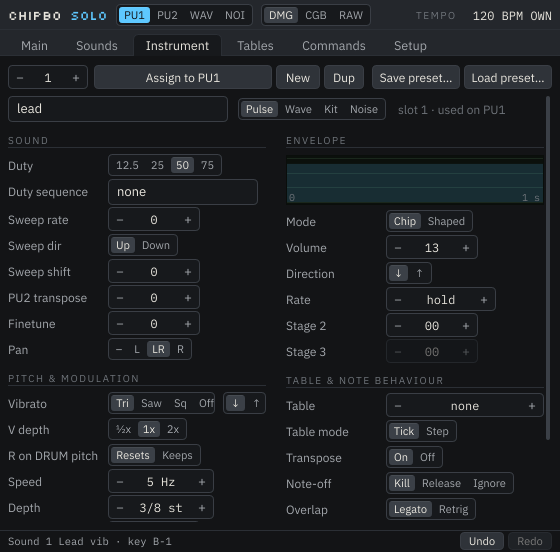
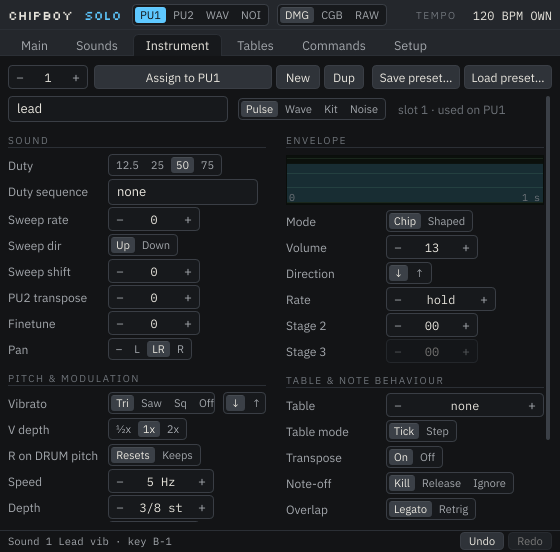
Solo: the wordmark unclipped, the compact Waves top row from the right, a shorter Kits hint, a plainer note line
Seen in the screenshots: the header's CHIPBOY was cut at 62 px; the
compact Waves page's frame readout lost its count behind the New button
(the row is now laid out from the right, the name taking what is left,
without the FRAME label); the Kits page's table hint ran off the pane; the
Main page's note line repeated the status line's recall.

Claude-Session: https://claude.ai/code/session_017xjfhsuF4KGRWmf3FzZwSg

Changed region(s): [[0.1214, 0.0, 0.6982, 0.0616]]

diff --git a/Source/plugin/solo/SoloEditor.cpp b/Source/plugin/solo/SoloEditor.cpp
@@ -286,9 +286,9 @@ void SoloStrip::tick()
     if (note != noteDrawn_) { noteDrawn_ = note; repaint(scope_.getBounds()); }
     int lo = 0, hi = 127;
     processor_.noteRange(lo, hi);
-    String line = "plays " + ValueFormat::noteValue(lo, ch == 3) + String(CharPointer_UTF8("\xe2\x80\x93")) + ValueFormat::noteValue(hi, ch == 3);
+    // The last recall is the status line's; here the range and the note.
+    String line = "plays " + ValueFormat::noteValue(lo, ch == 3) + " to " + ValueFormat::noteValue(hi, ch == 3);
     line += kDot + "note " + (note >= 0 ? ValueFormat::noteValue(note, ch == 3) : kDash);
-    if (const String r = processor_.lastRecall(); r.isNotEmpty()) line += kDot + r;
     if (line != noteShown_) { noteShown_ = line; noteLine_.setText(line); }
 }
 
@@ -1156,9 +1156,9 @@ void SoloEditor::resized()
     content_.setBounds(0, 0, kSoloWidth, kSoloHeight);
     auto area = content_.getLocalBounds();
     auto head = area.removeFromTop(kHeader).reduced(kPad, 0);
-    wordmark_.setBounds(head.removeFromLeft(62));
-    product_.setBounds(head.removeFromLeft(38));
-    head.removeFromLeft(8);
+    wordmark_.setBounds(head.removeFromLeft(76));
+    product_.setBounds(head.removeFromLeft(42));
+    head.removeFromLeft(6);
     channel_.setBounds(head.removeFromLeft(channel_.preferredWidth()).withSizeKeepingCentre(channel_.preferredWidth(), 22));
     head.removeFromLeft(8);
     model_.setBounds(head.removeFromLeft(model_.preferredWidth()).withSizeKeepingCentre(model_.preferredWidth(), 22));

diff --git a/Source/plugin/main/panels/WavesPanel.cpp b/Source/plugin/main/panels/WavesPanel.cpp
@@ -807,10 +807,19 @@ void WavesPanel::resized()
         newBtn_.setBounds(top.removeFromRight(44).withHeight(Stepper::kHeight));
         top.removeFromRight(6);
     }
-    name_.setBounds(top.removeFromLeft(compact ? std::max(60, top.getWidth() - 116) : 200).withHeight(NameField::kHeight));
-    top.removeFromLeft(compact ? 6 : 12);
-    frameLabel_.setBounds(top.removeFromLeft(44));
-    frameText_.setBounds(top.removeFromLeft(64));
+    frameLabel_.setVisible(!compact);
+    if (compact) {
+        // The frame readout ("1 of 16") keeps its width without its label;
+        // the name takes what is left.
+        frameText_.setBounds(top.removeFromRight(52));
+        top.removeFromRight(6);
+        name_.setBounds(top.withHeight(NameField::kHeight));
+    } else {
+        name_.setBounds(top.removeFromLeft(200).withHeight(NameField::kHeight));
+        top.removeFromLeft(12);
+        frameLabel_.setBounds(top.removeFromLeft(44));
+        frameText_.setBounds(top.removeFromLeft(64));
+    }
     area.removeFromTop(6);
     scroll_.setBounds(area);
     synthScroll_.setBounds(synth);

diff --git a/Source/plugin/main/panels/KitsPanel.cpp b/Source/plugin/main/panels/KitsPanel.cpp
@@ -316,7 +316,7 @@ void KitsPanel::rebuildContent()
         // Section 194: the custom table -- LSDj's raw page, editable -- and its LCD quirk.
         auto hex = std::make_unique<HexPage>();
         hex->onChange = [this](std::vector<uint8_t> t) { editKit("dist table", [t](bank::Kit& k) { k.distTable = t; }); };
-        hex_ = grid->addField("Table", "row = one sample's nibble, column = the other's", std::move(hex), HexPage::kHeight, HexPage::kWidth, 2);
+        hex_ = grid->addField("Table", "row = one sample, column = other", std::move(hex), HexPage::kHeight, HexPage::kWidth, 2);
         auto lcd = std::make_unique<Toggle>("LCD holes");
         lcd->setTooltip("Read the table as LSDj reads a page of video RAM: a byte mixed while the LCD draws a line comes back FF, which puts FE bytes through each frame in the scanline's rhythm (section 184). An import sets it for a page in video RAM.");
         lcd->onChange = [this](bool on) { editKit("LCD holes", [on](bank::Kit& k) { k.distVram = on; }); };

diff --git a/docs/HANDOFF.md b/docs/HANDOFF.md
@@ -132,7 +132,11 @@ state file is `ChipBoy.settings` under the app-data folder (`%APPDATA%\ChipBoy` 
   and `Demo/solo/solo-demo.cbsolo` (`make_solo.py`, CTest `demo_solo_loads`); then the
   sustain pedal, feedback on Store and empty recalls, the SOUND field's *(edited)*, the
   playing mark in the Sounds list, Ctrl+1..8 for the pages, the Waves tools row wrapping,
-  the window's size at 100 / 125 / 150 %, and a MIDI channel choice.
+  the window's size at 100 / 125 / 150 %, and a MIDI channel choice; then, from the
+  screenshots, the header's wordmark no longer clipped, the compact Waves top row laid
+  out from the right (the frame readout keeps its width, the name takes the rest, no
+  FRAME label), the Kits page's table hint shortened, and the Main page's note line
+  reduced to the range and the note (the recall is the status line's).
 - **A record-test flake fixed on the way** (§226 amendment): a message for a row already
   fitted opened a second take and its finish cleared the row; a second take now re-fits
   the row over the union of both takes' messages. The groove cases record the same with
